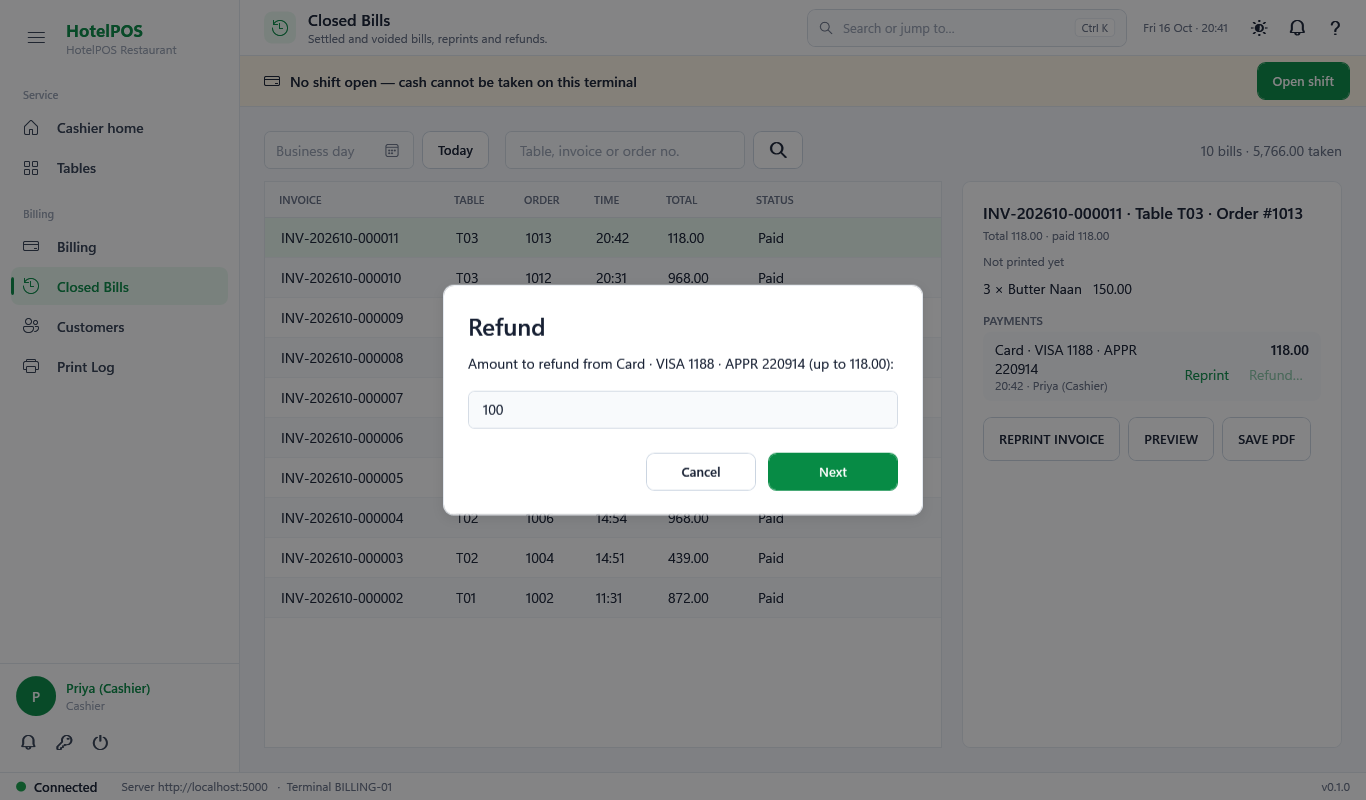
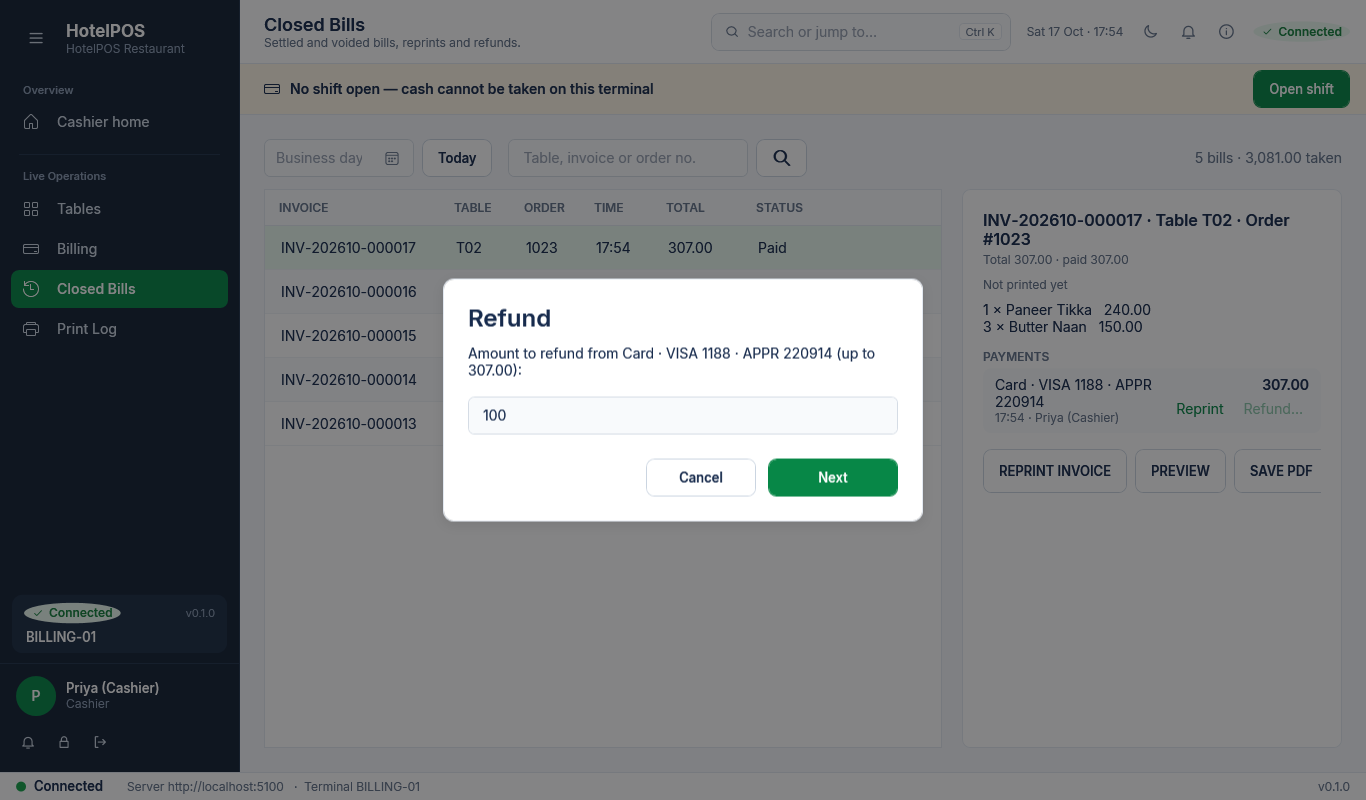
fix(desktop): payment column fits at 800 px without scrolling; functions live passes drive the cashier workspace; functions gallery refreshed

diff --git a/Restaurant_Pos/src/HotelPOS.Desktop/Themes/Cashier.xaml b/Restaurant_Pos/src/HotelPOS.Desktop/Themes/Cashier.xaml
@@ -343,12 +343,12 @@
         </Grid.RowDefinitions>
 
         <ScrollViewer VerticalScrollBarVisibility="Auto" PanningMode="VerticalOnly">
-          <StackPanel Margin="16,14,16,8">
+          <StackPanel Margin="16,10,16,4">
             <Grid>
               <TextBlock Text="Payment" Style="{StaticResource Text.Subtitle}" />
               <controls:StatusBadge Display="{Binding Display}" HorizontalAlignment="Right" />
             </Grid>
-            <TextBlock Text="Amount due" Style="{StaticResource Text.Caption}" Margin="0,6,0,0" />
+            <TextBlock Text="Amount due" Style="{StaticResource Text.Caption}" Margin="0,2,0,0" />
             <TextBlock Text="{Binding BalanceText}" Style="{StaticResource PaymentPanel.Due}" />
 
             <!-- Held elsewhere: look, do not change -->
@@ -375,22 +375,22 @@
             </StackPanel>
 
             <!-- Form -->
-            <StackPanel Visibility="{Binding CanPay, Converter={StaticResource BoolToVisibility}}" Margin="0,10,0,0">
+            <StackPanel Visibility="{Binding CanPay, Converter={StaticResource BoolToVisibility}}" Margin="0,4,0,0">
               <Border Style="{StaticResource Banner.Warning}" Visibility="{Binding HasMethods, Converter={StaticResource InverseBoolToVisibility}}">
                 <TextBlock Text="No payment method is set up. Ask an administrator to add one under Billing setup." Style="{StaticResource Text.Body}" TextWrapping="Wrap" />
               </Border>
               <StackPanel Visibility="{Binding HasMethods, Converter={StaticResource BoolToVisibility}}">
                 <TextBlock Text="Payment method" Style="{StaticResource Text.Label}" />
                 <!-- D6: one toggle per active configured method in sort order; the hotkey is the caption. Split is fixed (F9). -->
-                <ItemsControl ItemsSource="{Binding MethodButtons}" Focusable="False" Margin="0,6,-8,0">
+                <ItemsControl ItemsSource="{Binding MethodButtons}" Focusable="False" Margin="0,2,-8,0">
                   <ItemsControl.ItemsPanel>
                     <ItemsPanelTemplate>
-                      <UniformGrid Columns="2" />
+                      <UniformGrid Columns="3" />
                     </ItemsPanelTemplate>
                   </ItemsControl.ItemsPanel>
                   <ItemsControl.ItemTemplate>
                     <DataTemplate DataType="{x:Type billing:PaymentMethodButton}">
-                      <ToggleButton Style="{StaticResource PaymentPanel.Method}" MinHeight="44" Margin="0,0,8,6" IsChecked="{Binding IsSelected, Mode=OneWay}"
+                      <ToggleButton Style="{StaticResource PaymentPanel.Method}" MinHeight="44" Margin="0,0,8,4" IsChecked="{Binding IsSelected, Mode=OneWay}"
                                     Command="{Binding DataContext.PayWithCommand, RelativeSource={RelativeSource AncestorType=ItemsControl}}"
                                     CommandParameter="{Binding Method}" AutomationProperties.Name="{Binding Name}">
                         <StackPanel>
@@ -402,7 +402,7 @@
                   </ItemsControl.ItemTemplate>
                 </ItemsControl>
                 <ToggleButton Style="{StaticResource PaymentPanel.Method}" IsChecked="{Binding IsSplitSelected, Mode=OneWay}" Command="{Binding PaySplitCommand}"
-                              HorizontalAlignment="Stretch" Margin="0,0,0,4" MinHeight="40" AutomationProperties.Name="Split payment">
+                              HorizontalAlignment="Stretch" Margin="0,0,0,2" MinHeight="44" AutomationProperties.Name="Split payment">
                   <StackPanel Orientation="Horizontal">
                     <controls:Icon Kind="swap" Width="16" Height="16" VerticalAlignment="Center" Margin="0,0,8,0" />
                     <TextBlock Text="Split payment" VerticalAlignment="Center" />
@@ -415,33 +415,32 @@
                 <DataTemplate DataType="{x:Type billing:PaymentViewModel}">
                   <StackPanel>
                     <StackPanel Visibility="{Binding IsSingle, Converter={StaticResource BoolToVisibility}}">
-                      <Grid Margin="0,4,0,0">
+                      <Grid Margin="0,2,0,0">
                         <Grid.ColumnDefinitions>
                           <ColumnDefinition Width="*" />
                           <ColumnDefinition Width="140" />
                         </Grid.ColumnDefinitions>
                         <TextBlock Text="Amount to pay" Style="{StaticResource Text.Caption}" VerticalAlignment="Center" />
-                        <TextBox Grid.Column="1" Text="{Binding AmountText, UpdateSourceTrigger=PropertyChanged}" MaxLength="12" MinHeight="40" TextAlignment="Right"
+                        <TextBox Grid.Column="1" Text="{Binding AmountText, UpdateSourceTrigger=PropertyChanged}" MaxLength="12" MinHeight="36" TextAlignment="Right"
                                  Typography.NumeralAlignment="Tabular" AutomationProperties.Name="Amount to pay" />
                       </Grid>
                       <StackPanel Visibility="{Binding IsCash, Converter={StaticResource BoolToVisibility}}">
-                        <TextBlock Text="Quick amounts" Style="{StaticResource Text.Caption}" Margin="0,6,0,2" />
-                        <ItemsControl ItemsSource="{Binding QuickTenders}" Focusable="False" Margin="0,0,-8,0">
+                        <ItemsControl ItemsSource="{Binding QuickTenders}" Focusable="False" Margin="0,6,-8,0">
                           <ItemsControl.ItemsPanel>
                             <ItemsPanelTemplate>
-                              <UniformGrid Columns="3" />
+                              <UniformGrid Rows="1" />
                             </ItemsPanelTemplate>
                           </ItemsControl.ItemsPanel>
                           <ItemsControl.ItemTemplate>
                             <DataTemplate DataType="{x:Type billing:QuickTenderOption}">
-                              <Button Content="{Binding Label}" Style="{StaticResource PaymentPanel.QuickAmount}" MinHeight="38" Margin="0,0,8,6"
+                              <Button Content="{Binding Label}" Style="{StaticResource PaymentPanel.QuickAmount}" MinHeight="44" Margin="0,0,8,4" Padding="4,0" FontSize="14"
                                       Command="{Binding DataContext.QuickTenderCommand, RelativeSource={RelativeSource AncestorType=ItemsControl}}"
                                       CommandParameter="{Binding}" />
                             </DataTemplate>
                           </ItemsControl.ItemTemplate>
                         </ItemsControl>
                         <TextBlock Text="Amount received" Style="{StaticResource Text.Caption}" Margin="0,2,0,2" />
-                        <TextBox Text="{Binding TenderedText, UpdateSourceTrigger=PropertyChanged}" Style="{StaticResource PaymentPanel.Received}" MaxLength="12" MinHeight="46"
+                        <TextBox Text="{Binding TenderedText, UpdateSourceTrigger=PropertyChanged}" Style="{StaticResource PaymentPanel.Received}" MaxLength="12" MinHeight="44"
                                  AutomationProperties.Name="Amount received" />
                         <Border Style="{StaticResource PaymentPanel.Change}" Margin="0,4,0,0" Padding="14,6">
                           <Grid>
@@ -518,7 +517,7 @@
         </ScrollViewer>
 
         <!-- Footer, always in view: the failure (inline, actionable), Complete payment, or the paid actions. -->
-        <Border Grid.Row="1" BorderBrush="{DynamicResource Brush.Border}" BorderThickness="0,1,0,0" Padding="16,12,16,14">
+        <Border Grid.Row="1" BorderBrush="{DynamicResource Brush.Border}" BorderThickness="0,1,0,0" Padding="16,8,16,10">
           <StackPanel>
             <controls:ErrorState Icon="alert" Title="Payment not taken" Message="{Binding PaymentError}" Margin="0,0,0,10"
                                  Visibility="{Binding PaymentError, Converter={StaticResource StringToVisibility}}" />
@@ -532,7 +531,7 @@
               <Button Content="Next bill" Command="{Binding NextBillCommand}" Style="{StaticResource Button.Large}" Margin="0,8,0,0" />
             </StackPanel>
             <!-- Quick actions: the keyboard legend (the method buttons carry their own key). -->
-            <TextBlock Style="{StaticResource Text.Caption}" TextWrapping="Wrap" TextAlignment="Center" Margin="0,10,0,0">
+            <TextBlock Style="{StaticResource Text.Caption}" TextWrapping="Wrap" TextAlignment="Center" Margin="0,6,0,0">
               <Run Text="F2" FontWeight="SemiBold" /><Run Text=" cash  ·  " /><Run Text="F3–F8" FontWeight="SemiBold" /><Run Text=" other methods  ·  " /><Run Text="F9" FontWeight="SemiBold" /><Run Text=" split  ·  " /><Run Text="Esc" FontWeight="SemiBold" /><Run Text=" back to the queue" />
             </TextBlock>
           </StackPanel>

diff --git a/Restaurant_Pos/tests/HotelPOS.Desktop.Tests/Rendering/LiveFlowScreenshots.cs b/Restaurant_Pos/tests/HotelPOS.Desktop.Tests/Rendering/LiveFlowScreenshots.cs
@@ -1145,10 +1145,10 @@ public class LiveFlowScreenshots
         }
 
         // Bill of order 1: attach the customer, discount above the cashier limit (approval), pay by card.
-        var queue = await NavigateAsync<BillingQueueViewModel>(shell, ModuleRegistry.Billing);
-        var card = queue.Bills.FirstOrDefault(b => b.TableCode == TableCode) ?? throw new InvalidOperationException("No T02 bill in the queue.");
-        await queue.OpenCommand.ExecuteAsync(card);
-        var bill = (BillDetailViewModel)shell.CurrentPage!;
+        var workspace = await NavigateAsync<CashierWorkspaceViewModel>(shell, ModuleRegistry.Billing);
+        var card = workspace.Bills.FirstOrDefault(b => b.TableCode == TableCode) ?? throw new InvalidOperationException("No T02 bill in the workspace.");
+        await workspace.SelectAsync(card);
+        var bill = workspace.Detail ?? throw new InvalidOperationException("The bill did not open in the workspace.");
         notifications.Items.Clear();
 
         bill.ShowCustomerCommand.Execute(null);
@@ -1230,10 +1230,10 @@ public class LiveFlowScreenshots
         var navigator = terminal.Get<IAppNavigator>();
         var notifications = terminal.Get<NotificationService>();
         var shell = await SignInShellAsync(terminal, "cashier1", "Pass@123");
-        var queue = await NavigateAsync<BillingQueueViewModel>(shell, ModuleRegistry.Billing);
-        var card = queue.Bills.FirstOrDefault(b => b.TableCode == TableCode) ?? throw new InvalidOperationException("No second T02 bill in the queue.");
-        await queue.OpenCommand.ExecuteAsync(card);
-        var bill = (BillDetailViewModel)shell.CurrentPage!;
+        var workspace = await NavigateAsync<CashierWorkspaceViewModel>(shell, ModuleRegistry.Billing);
+        var card = workspace.Bills.FirstOrDefault(b => b.TableCode == TableCode) ?? throw new InvalidOperationException("No second T02 bill in the workspace.");
+        await workspace.SelectAsync(card);
+        var bill = workspace.Detail ?? throw new InvalidOperationException("The bill did not open in the workspace.");
         await bill.FinalizeCommand.ExecuteAsync(null);
         bill.ClosePanelCommand.Execute(null);
         notifications.Items.Clear();
@@ -1241,7 +1241,7 @@ public class LiveFlowScreenshots
         await DriveAsync(terminal, bill.ReopenCommand.ExecuteAsync(null), "46-bill-reopen-invoiced", new DialogAnswer("Guest wants to add dessert"), ManagerApproval);
         await Dispatcher.Yield(DispatcherPriority.Background);
         await RenderAsync(terminal, "46-bill-reopen-invoiced-after");
-        Note(shell.CurrentPage is BillingQueueViewModel ? $"Bill of order {order2} reopened (invoice cancelled)." : "Reopen NOT completed: " + bill.ErrorMessage);
+        Note(workspace.Detail is null ? $"Bill of order {order2} reopened (invoice cancelled)." : "Reopen NOT completed: " + bill.ErrorMessage);
 
         await navigator.LogoutAsync();
         await terminal.DisposeAsync();

diff --git a/Restaurant_Pos/docs/ui-ux/desktop/README.md b/Restaurant_Pos/docs/ui-ux/desktop/README.md
@@ -32,8 +32,7 @@ A capture log is written to `%TEMP%\hotelpos-live-screens.log`.
 
 **This run:** roles `cashier` and `admin`. `admin` with the guessed password `Admin@123` failed ("Invalid username or
 password"; tried once, nothing changed), so the management screens were captured as **manager1** and the admin-only
-screens (Users, Roles, Devices, Settings, Licence, Server) were not regenerated. The `functions*` passes were not run:
-they still cast `Billing` to the old `BillingQueueViewModel` and would need the same rewrite as the cashier flow.
+screens (Users, Roles, Devices, Settings, Licence, Server) were not regenerated. The `functions-cashier`, `functions-cashier-reopen` and `functions-manager` passes were re-run against the workspace.
 
 ## `cashier/` — the cashier flow (cashier1 on BILLING-01), 19 screens
 
@@ -86,17 +85,14 @@ they still cast `Billing` to the old `BillingQueueViewModel` and would need the 
 shell; regenerate them with `HOTELPOS_ADMIN_PASSWORD` set. The admin pictures of screens a manager also has (dashboard,
 tables, menu, audit, reports, GST, day end, printers, palette, dark) were deleted; `manager/` has the Phase 21 ones.
 
-## `functions/` — function-by-function pass, **pre-Phase 21** (16 Oct 2026), 71 screens
+## `functions/` — function-by-function pass (16–17 Oct 2026; bill functions 41–43 and 46 re-shot 17 Oct against the cashier workspace), 82 screens
 
 `NN-area-action-before.png` / `-dialog[N].png` / `-after.png` for: users create / edit / reset password / deactivate /
 unlock (01–05), roles edit and revert (06), sections add (07), tables add / rename / deactivate (08–10), category and
 item create, sold out, back in stock (11–14), palette table search (15), settings kitchen-warn edit and revert (16–17),
 printers test print (18), licence / server / backup pages (19–21), audit filter (22), day-end precheck (23), GST current
 month (24), the eight reports and their Excel / PDF exports and dark theme (25–28), cancel an order line as manager
-(30–31), customer create (40), refund of a card payment with manager approval (44) and Closed Bills dark (45). The
-`41-43` and `46` bill shots (attach customer, over-limit discount, pay by card, reopen) were deleted: they showed the
-legacy bill page, which the cashier workspace replaced. The pass still drives the old queue (`BillingQueueViewModel`)
-and must be rewritten before it can be replayed.
+(30–31), customer create (40), refund of a card payment with manager approval (44) and Closed Bills dark (45). Thebill functions `41–43` and `46` (attach customer, over-limit discount with manager approval, pay by card, reopen aninvoiced bill) are captured on the **cashier workspace** (select bill, then the composed bill-detail commands; 41 and 43before/after, 42 before/dialog/after, 46 before/dialog/dialog2/after). The other functions are the 16 Oct captures except30/31 and 40/44/45 (re-shot 17 Oct). Replay: `HOTELPOS_LIVE_SCREENS_ROLES=functions-manager,functions-cashier,functions-cashier-reopen` (the manager part prepares the T02 bill).
 
 ## Comparison with the mock-ups (`docs/design/reference/cashier-workspace.png`, `admin-dashboard.png`)
 
@@ -120,10 +116,7 @@ and must be rewritten before it can be replayed.
    `src/HotelPOS.Desktop/Modules/Orders/ActiveOrdersView.xaml` and ITEMS 62→72, ELAPSED 82→100, View 66→80 in
    `src/HotelPOS.Desktop/Modules/Dashboard/DashboardView.xaml`; the manager run was repeated and `ScreenRenderingTests`
    is green.
-2. **Mostly fixed (medium) — Payment column: Amount received is below the fold at 800 px.** Spacing tightened in `Themes/Cashier.xaml` (method, quick-amount, received, change); Amount received is now visible at 800 px, the Change box still needs a scroll of the column (its scrollbar stays) - `cashier/05`: the quick-amount grid
-   takes two rows, so the received field sits under the Complete payment button and needs the column's scrollbar; at
-   1366×768 it is further down. One row of quick amounts (or a smaller hero) would fit
-   (`src/HotelPOS.Desktop/Modules/Billing/BillDetailView.xaml`, payment column).
+2. **Fixed (medium) — Payment column: the Change box needed a scroll at 800 px.** `Themes/Cashier.xaml` payment template: method toggles in three columns, quick amounts in one row of four (44 px, smaller padding so "2,000.00" is whole), the "Quick amounts" caption dropped, tighter margins and footer padding; due hero, methods, split, amount to pay, quick amounts, received, Change due and Complete payment now all fit in the 1366×800 window with no scrollbar (`cashier/07`).
 3. **Fixed (medium) — Sidebar (`ShellView.xaml`: scrollbar Auto with a thin themed thumb; footer pinned; not re-shot, cashier nav is short) navigation is cut at "Menu Management" at 800 px.** Every manager screen: the nav list
    ends under the device card with a half-visible group label and no visible scrollbar, so Finance, Analytics,
    Devices and System are reachable only by wheel-scrolling or the palette (`src/HotelPOS.Desktop/Shell/ShellView.xaml:250`,
@@ -138,7 +131,7 @@ and must be rewritten before it can be replayed.
 7. **Fixed (low, "Manage customers…" link, `ManageCustomersCommand`) — D3's "Manage customers" link is missing.** The bill's customer picker says "add the customer on the
    Customers screen" (`src/HotelPOS.Desktop/Modules/Billing/BillDetailView.xaml:308`) but Customers is no longer in the
    sidebar; only the command palette reaches it.
-8. **Info — not regenerated.** Admin-only screens (password unknown) and the `functions/` pass (needs the workspace
+8. **Info — not regenerated.** Admin-only screens (password unknown); the `functions/` pass was rewritten for the workspace (see its section)
    rewrite); the Terminals panel is still a placeholder for managers (Phase 20 issue 11, by design of the API).
 
 Binding errors: the live test installs no `PresentationTraceSources` listener; `ScreenRenderingTests` (which fails on
